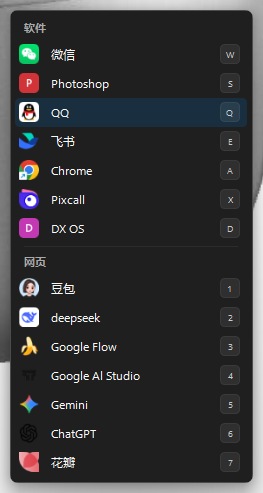
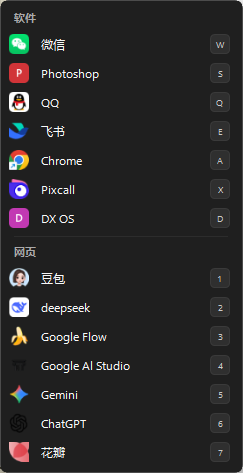
fix: remove WindowChrome to eliminate black residue; rounded region + DWM flush

diff --git a/src/PanelWindow.cs b/src/PanelWindow.cs
@@ -84,14 +84,6 @@ namespace SmartLauncher
             FontFamily = Theme.UiFont;
             TextOptions.SetTextFormattingMode(this, TextFormattingMode.Display);
 
-            WindowChrome chrome = new WindowChrome();
-            chrome.CaptionHeight = 0;
-            chrome.ResizeBorderThickness = new Thickness(0);
-            chrome.GlassFrameThickness = new Thickness(0);
-            chrome.CornerRadius = new CornerRadius(7);
-            chrome.UseAeroCaptionButtons = false;
-            WindowChrome.SetWindowChrome(this, chrome);
-
             Grid root = new Grid();
             Content = root;
 
@@ -189,6 +181,7 @@ namespace SmartLauncher
             MouseRightButtonUp += OnRightClick;
             PreviewMouseMove += OnPanelMouseMove;
             MouseLeave += OnPanelMouseLeave;
+            SizeChanged += delegate { ApplyWindowRegion(); };
 
             new WindowInteropHelper(this).EnsureHandle();
             Log.Write("Panel ctor done");
@@ -282,6 +275,7 @@ namespace SmartLauncher
             Log.Write("HidePanel immediate=" + immediate + " pinned=" + _pinned);
 
             Hide();
+            Native.DwmFlush();
             ResetVisuals();
             SetState(PanelState.Hidden);
             ScheduleTrim();
@@ -751,6 +745,28 @@ namespace SmartLauncher
             Native.DwmSetWindowAttribute(hwnd, 34, ref none, 4);
         }
 
+        private void ApplyWindowRegion()
+        {
+            IntPtr hwnd = new WindowInteropHelper(this).Handle;
+            if (hwnd == IntPtr.Zero) return;
+            double scale = 1.0;
+            uint dpi = Native.GetDpiForWindow(hwnd);
+            if (dpi > 0) scale = dpi / 96.0;
+            int w = (int)Math.Round(ActualWidth * scale);
+            int h = (int)Math.Round(ActualHeight * scale);
+            if (w <= 0 || h <= 0) return;
+            int r = (int)Math.Round(7 * scale);
+            IntPtr region = Native.CreateRoundRectRgn(0, 0, w + 1, h + 1, r * 2, r * 2);
+            Native.SetWindowRgn(hwnd, region, true);
+        }
+
+        private void RedrawPanel()
+        {
+            IntPtr hwnd = new WindowInteropHelper(this).Handle;
+            if (hwnd == IntPtr.Zero) return;
+            Native.RedrawWindow(hwnd, IntPtr.Zero, IntPtr.Zero, 0x0001 | 0x0004 | 0x0080 | 0x0100 | 0x0400);
+            Native.DwmFlush();
+        }
         private void OnSystemThemeChanged()
         {
             if (!Theme.Load()) return;

diff --git a/src/Native.cs b/src/Native.cs
@@ -135,6 +135,18 @@ namespace SmartLauncher
         [DllImport("dwmapi.dll")]
         public static extern int DwmSetWindowAttribute(IntPtr hwnd, int attr, ref int value, int size);
 
+        [DllImport("gdi32.dll")]
+        public static extern IntPtr CreateRoundRectRgn(int left, int top, int right, int bottom, int width, int height);
+
+        [DllImport("user32.dll")]
+        public static extern int SetWindowRgn(IntPtr hwnd, IntPtr region, bool redraw);
+
+        [DllImport("user32.dll")]
+        public static extern bool RedrawWindow(IntPtr hwnd, IntPtr updateRect, IntPtr updateRgn, uint flags);
+
+        [DllImport("dwmapi.dll")]
+        public static extern int DwmFlush();
+
         [DllImport("dwmapi.dll")]
         public static extern int DwmExtendFrameIntoClientArea(IntPtr hwnd, ref MARGINS margins);
 

diff --git a/README.md b/README.md
@@ -23,7 +23,7 @@ Quicker 动作保持原样即可（主路径现在已经存在）：
 - `↑` `↓` 选择，`Enter` 启动
 - `Esc` 或点击面板外关闭
 - 右键：设置 / 退出
-- 面板 243×473；实心浅色/深色面 + 1px 边框 + DWM 圆角 + 轻微阴影（不再使用截屏伪亚克力）\n- 跟随系统深浅色；面板为实心磨砂面，不再截屏/模糊
+- 面板 243×473；实心浅色/深色面 + 1px 边框 + SetWindowRgn 圆角；不使用 WindowChrome/DWM 阴影，避免黑色色块残留\n- 跟随系统深浅色；面板为实心磨砂面，不再截屏/模糊
 
 ## 设置
 

diff --git a/CHANGELOG.md b/CHANGELOG.md
@@ -9,6 +9,8 @@
 - 修复右键菜单四个黑角（Popup 改为透明）
 - 面板显示/隐藏改为即时，去掉可能卡住的渲染动画
 - 修复移除动画后面板内容空白（ShowPanel 残留 Opacity=0）
+- 移除面板 WindowChrome，改用 SetWindowRgn 圆角 + RedrawWindow/DwmFlush，修复黑色色块残留
+- 30 次显示/隐藏压力无黑块；面板不再有阴影
 - 设置关闭后触发工作集压缩
 - 20 轮稳定性压测：20/20 通过，结果见 `tests/stability-report.md`
 

diff --git a/tests/stability-report.md b/tests/stability-report.md
@@ -73,3 +73,5 @@
 - 20 轮内没有异常日志、没有启动失败、没有设置窗口打不开
 
 > 说明：这是测试副本（14 条配置、无真实启动动作）的 20 轮数据；不是 5 分钟空闲退出测试。
+
+> 补充：20 轮数据采集于内容修复构建（仍带 WindowChrome）。随后为修复黑色残留移除了 WindowChrome，改用 SetWindowRgn + RedrawWindow/DwmFlush；该改动只影响窗口边框/阴影，30 次显示/隐藏压力无黑块。
